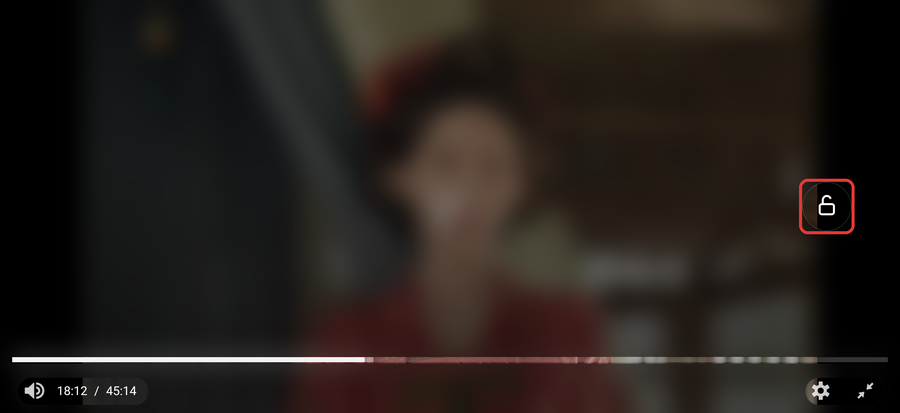
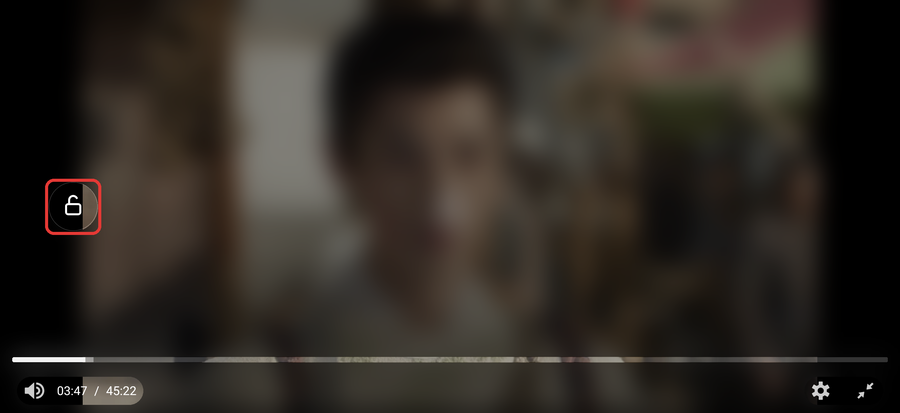
history 1.5, per-script READMEs and fresh screenshots
- history: do not lock onto the 1-second placeholder video the page shows
  before the real episode loads
- READMEs: one per script plus a general install guide; history explains
  the Firefox autoplay permission
- screenshots: current install/update pages, the three scripts in Tampermonkey,
  lock button on the left, continue-watching row, autoplay setting

diff --git a/history/motchill-history.user.js b/history/motchill-history.user.js
@@ -1,7 +1,7 @@
 // ==UserScript==
 // @name         Motchill - lịch sử xem
 // @namespace    motchill-history
-// @version      1.4
+// @version      1.5
 // @author       zic
 // @homepageURL  https://github.com/nhattruong16062003/motchill-userscripts/tree/main/history
 // @updateURL    https://raw.githubusercontent.com/nhattruong16062003/motchill-userscripts/main/history/motchill-history.user.js
@@ -154,8 +154,9 @@
     // không cần bấm Play hay chọn gì.
     function start() {
       if (ready) return;
+      const duration = Number.isFinite(video.duration) ? video.duration : 0;
+      if (duration && duration < MIN_EPISODE_SECONDS) return; // Video giả: đợi phim thật nạp vào.
       ready = true;
-      const duration = video.duration || 0;
       const canResume = resumeAt > MIN_RESUME_SECONDS && (!duration || resumeAt < duration * FINISHED_RATIO);
       if (!canResume) return;
       video.currentTime = resumeAt;

diff --git a/README.md b/README.md
@@ -1,118 +1,100 @@
-# Motchill không quảng cáo
+# Motchill userscripts
 
-Xem phim trên **motchilltu.com** không còn banner, popup hay tab quảng cáo tự bật. Trình phát có thêm tua 10 giây, giữ để xem nhanh x2 và khóa màn hình khi xem toàn màn hình.
+Ba script nhỏ giúp xem phim trên **motchilltu.com** dễ chịu hơn: không quảng cáo, tua và xem nhanh bằng cử chỉ, nhớ chỗ đang xem dở. Script chạy ngay trong trình duyệt điện thoại, không cần cài ứng dụng riêng.
 
-| Tính năng | Cách dùng |
-| --- | --- |
-| Chặn quảng cáo | Tự động, không cần bấm gì |
-| Tua 10 giây | Chạm 2 lần vào nửa trái (lùi) hoặc nửa phải (tới) của khung phim |
-| Xem nhanh x2 | Giữ ngón tay trên phim, thả ra là về tốc độ cũ |
-| Khóa màn hình | Bấm ổ khóa ở mép phải khi đang xem toàn màn hình |
+Mỗi script chạy riêng. Bạn cần cái nào thì cài cái đó.
 
-Dùng được trên **Android (Firefox)** và **iPhone, iPad (Safari)**. Chrome trên điện thoại không cài được tiện ích nên không dùng được.
+| Script | Làm gì | Android | iPhone, iPad | Hướng dẫn dùng |
+| --- | --- | :---: | :---: | --- |
+| Chặn quảng cáo + tối ưu mạng | Bỏ banner, popup, tab quảng cáo tự mở; đỡ tốn 4G | Có | Có | [Xem](noads/README.md) |
+| Thao tác trình phát | Chạm 2 lần để tua 10 giây, giữ để xem x2, khóa màn hình | Có | Không | [Xem](gestures/README.md) |
+| Lịch sử xem | Nhớ chỗ đang xem dở, mở lại là xem tiếp | Có | Chưa nên cài | [Xem](history/README.md) |
 
-**Link cài đặt:**
+Trên iPhone, iPad chỉ nên cài **Chặn quảng cáo**. Lý do có trong hướng dẫn của từng script.
 
-```
-https://raw.githubusercontent.com/nhattruong16062003/motchill-noads/main/motchill-noads.user.js
-```
+**Link cài đặt** (Android mở bằng Firefox, iPhone mở bằng Safari):
+
+- Chặn quảng cáo: https://raw.githubusercontent.com/nhattruong16062003/motchill-userscripts/main/noads/motchill-noads.user.js
+- Thao tác trình phát: https://raw.githubusercontent.com/nhattruong16062003/motchill-userscripts/main/gestures/motchill-gestures.user.js
+- Lịch sử xem: https://raw.githubusercontent.com/nhattruong16062003/motchill-userscripts/main/history/motchill-history.user.js
 
 ---
 
 ## Cài trên Android (Firefox)
 
-Mỗi máy chỉ cài một lần, sau đó tự chạy và tự cập nhật.
+Chrome trên điện thoại không cài được tiện ích, nên phải dùng Firefox. Mỗi máy chỉ cần cài một lần, sau đó script tự chạy và tự cập nhật.
 
 **Bước 1.** Cài **Firefox** từ CH Play.
 
 **Bước 2.** Cài tiện ích **Tampermonkey** cho Firefox:
 
 1. Mở Firefox, bấm **⋮** (góc phải trên) → **Tiện ích** → **Quản lý tiện ích**.
-2. Tìm **Tampermonkey**, bấm **+**, rồi bấm **Thêm** để đồng ý.
+2. Tìm **Tampermonkey**, bấm **+**, rồi bấm **Thêm**.
 
 Cài xong, trong menu **⋮** sẽ có dòng **Tiện ích · Tampermonkey**:
 
 <img src="docs/images/android-02-firefox-extensions-menu.png" width="320" alt="Menu Firefox có mục Tiện ích Tampermonkey">
 
-**Bước 3.** Mở **link cài đặt** ở trên bằng Firefox (bấm vào link, hoặc chép rồi dán vào thanh địa chỉ). Tampermonkey hiện trang cài đặt. Kiểm tra tên là *Motchill - chặn quảng cáo + cử chỉ tua*, nguồn là link GitHub, rồi kéo xuống cuối trang và bấm **Cài đặt**.
+**Bước 3.** Mở link cài đặt của script bạn muốn bằng Firefox (bấm vào link, hoặc chép rồi dán vào thanh địa chỉ). Tampermonkey hiện trang cài đặt. Kiểm tra tên script, **TÁC GIẢ** là *zic*, **NGUỒN** là link GitHub ở trên. Kéo xuống cuối trang, bấm **Cài đặt**.
 
-<img src="docs/images/android-03-install-page.png" width="320" alt="Trang cài đặt của Tampermonkey">
+<img src="docs/images/android-03-install-page.png" width="320" alt="Trang cài đặt của Tampermonkey, nguồn là GitHub, có nút Cài đặt">
 
-> Nếu máy đã có bản cũ, nút sẽ là **Cập nhật**. Nếu trước đó bạn đã xóa script, nút sẽ là **Cài lại**. Bấm nút đó là được.
+> Nếu script đã có trên máy, nút sẽ là **Cập nhật** (khi có bản mới hơn) hoặc **Cài lại** (khi cùng phiên bản).
 
-**Bước 4.** Mở **motchilltu.com** và xem phim. Muốn kiểm tra script đang chạy: bấm **⋮** → **Tiện ích** → **Tampermonkey**, thấy dòng *Motchill* có công tắc màu xanh là được.
+Muốn cài thêm script khác, làm lại bước 3 với link của script đó.
 
-<img src="docs/images/android-04-script-enabled.png" width="320" alt="Script đang bật trong Tampermonkey">
+> Máy từng cài bản cũ *Motchill - chặn quảng cáo + cử chỉ tua* (một script gộp chung): gỡ bản đó đi (xem phần **Gỡ cài đặt** ở cuối trang). Các script mới đã thay cho nó.
+
+**Bước 4.** Mở **motchilltu.com** và xem phim. Muốn kiểm tra: bấm **⋮** → **Tiện ích** → **Tampermonkey**. Các script đã cài hiện ra, công tắc màu xanh là đang chạy.
+
+<img src="docs/images/android-04-scripts-enabled.png" width="320" alt="Tampermonkey liệt kê 3 script đang bật">
+
+**Nếu cài Lịch sử xem:** cho phép trang tự phát phim, để phim tự chạy tiếp từ chỗ cũ. Trên motchilltu.com, chạm biểu tượng **tấm khiên** bên trái thanh địa chỉ → **Quyền hạn** → **Tự động phát** → **Cho phép âm thanh và video**. Có hình trong [hướng dẫn Lịch sử xem](history/README.md).
 
 ---
 
 ## Cài trên iPhone, iPad (Safari)
 
-Cần iOS 15.1 trở lên. Phải dùng **Safari**; Chrome và Firefox trên iPhone không chạy được script.
+Cần iOS 15.1 trở lên. Phải dùng **Safari**; Chrome và Firefox trên iPhone không chạy được script. Trên iPhone chỉ cài script **Chặn quảng cáo**.
 
 > Phần iPhone chưa được thử trên máy thật. Các hình dưới đây là **hình minh họa**, chữ trên máy bạn có thể khác một chút.
 
-**Bước 1.** Mở App Store, tìm **Userscripts** (miễn phí), bấm **Nhận**. Mở ứng dụng một lần để nó tự tạo thư mục chứa script.
+**Bước 1.** Mở App Store, tìm **Userscripts** (miễn phí), bấm **Nhận**. Mở ứng dụng một lần.
 
-<img src="docs/images/ios-01-app-store.png" width="280" alt="Hình minh họa: cài Userscripts từ App Store">
+<img src="docs/images/ios-01-app-store.png" width="320" alt="Hình minh họa: cài Userscripts từ App Store">
 
-**Bước 2.** Vào **Cài đặt → Ứng dụng → Safari → Phần mở rộng** (iOS 17 trở xuống: **Cài đặt → Safari → Phần mở rộng**). Bật **Userscripts** và đặt quyền là **Cho phép**, ít nhất cho motchilltu.com.
+**Bước 2.** Vào **Cài đặt → Ứng dụng → Safari → Phần mở rộng** (iOS 17 trở xuống: **Cài đặt → Safari → Phần mở rộng**). Bật **Userscripts** và cho phép nó chạy, ít nhất là trên motchilltu.com.
 
-<img src="docs/images/ios-02-enable-extension.png" width="280" alt="Hình minh họa: bật phần mở rộng Userscripts">
+<img src="docs/images/ios-02-enable-extension.png" width="320" alt="Hình minh họa: bật phần mở rộng Userscripts">
 
-**Bước 3.** Mở **link cài đặt** ở trên bằng Safari. Bấm **AA** (hoặc biểu tượng mảnh ghép) ở thanh địa chỉ → **Userscripts**, rồi bấm nút cài đặt hiện ra.
+**Bước 3.** Mở link cài đặt **Chặn quảng cáo** ở trên bằng Safari. Bấm **AA** (hoặc biểu tượng mảnh ghép) ở thanh địa chỉ → **Userscripts**, rồi bấm nút cài đặt hiện ra.
 
-**Bước 4.** Mở **motchilltu.com** trong Safari, bấm **AA** → **Userscripts**. Thấy script *Motchill* đang bật thì tải lại trang là xong.
+**Bước 4.** Mở **motchilltu.com** trong Safari, bấm **AA** → **Userscripts**. Thấy script đang bật thì tải lại trang là xong.
 
-<img src="docs/images/ios-03-check-in-safari.png" width="280" alt="Hình minh họa: kiểm tra script trong Safari">
+<img src="docs/images/ios-03-check-in-safari.png" width="320" alt="Hình minh họa: kiểm tra script trong Safari">
 
-**Nếu bước 3 không hiện nút cài:** tải file `motchill-noads.user.js` về máy, mở ứng dụng **Tệp**, chuyển file vào thư mục **Userscripts** (thường ở mục *Trên iPhone*), rồi làm tiếp bước 4.
+**Nếu bước 3 không hiện nút cài:** tải file `motchill-noads.user.js` về máy. Mở ứng dụng **Tệp**, chuyển file vào thư mục **Userscripts** (thường nằm trong mục *Trên iPhone*), rồi làm tiếp bước 4.
 
-<img src="docs/images/ios-04-save-to-files.png" width="280" alt="Hình minh họa: file nằm trong thư mục Userscripts">
-
----
-
-## Cách dùng khi xem phim
-
-Chọn server **VIP #1**. Server VIP #2 là trình phát của trang khác nên không có tua, x2 và khóa (quảng cáo vẫn bị chặn).
-
-Trang phim không còn quảng cáo:
-
-<img src="docs/images/use-01-no-ads.png" width="320" alt="Trang xem phim không còn quảng cáo">
-
-**Giữ ngón tay** trên phim để xem x2. Thả tay ra là về tốc độ cũ.
-
-<img src="docs/images/use-02-hold-2x.png" width="320" alt="Giữ để xem x2">
-
-**Chạm 2 lần** vào nửa phải để tới 10 giây, nửa trái để lùi 10 giây. Chạm liên tiếp để tua thêm 10 giây mỗi lần.
-
-<img src="docs/images/use-03-seek-forward.png" width="320" alt="Tua tới 10 giây"> <img src="docs/images/use-04-seek-back.png" width="320" alt="Lùi 10 giây">
-
-**Khóa màn hình** (chỉ có khi xem toàn màn hình): chạm 1 lần vào phim để hiện thanh điều khiển, rồi bấm ổ khóa ở mép phải.
-
-<img src="docs/images/use-05-lock-button.png" width="560" alt="Ổ khóa ở mép phải khi xem toàn màn hình">
-
-Khi đã khóa, thanh điều khiển ẩn hết: không dừng được phim, không thoát toàn màn hình được. Vẫn **tua 10 giây** và **giữ x2** như thường. Muốn mở khóa: chạm 1 lần vào phim, ổ khóa hiện lại khoảng 2,5 giây, bấm vào nó.
-
-<img src="docs/images/use-06-locked.png" width="560" alt="Đã khóa: chỉ còn ổ khóa">
+<img src="docs/images/ios-04-save-to-files.png" width="320" alt="Hình minh họa: file nằm trong thư mục Userscripts">
 
 ---
 
 ## Cập nhật
 
-- **Android:** Tampermonkey tự kiểm tra bản mới định kỳ. Muốn cập nhật ngay, mở lại link cài đặt rồi bấm **Cập nhật**.
-- **iPhone:** mở lại link cài đặt trong Safari và cài lại.
+**Android:** Tampermonkey tự kiểm tra bản mới định kỳ và tự cập nhật, bạn không cần làm gì.
 
-## Gặp lỗi
+Muốn cập nhật ngay: mở lại link cài đặt của script. Trang hiện số phiên bản mới cạnh tên script, còn dòng **PHIÊN BẢN CÀI ĐẶT** là bản đang có trên máy. Bấm **Cập nhật**.
 
-| Hiện tượng | Cách xử lý |
-| --- | --- |
-| Quảng cáo vẫn hiện | Kiểm tra đang dùng Firefox (Android) hoặc Safari (iPhone), không phải tab riêng tư. Tải lại trang. |
-| Không có tua, x2, ổ khóa | Chọn server **VIP #1**. |
-| Không thấy ổ khóa | Ổ khóa chỉ có khi xem toàn màn hình. Chạm 1 lần vào phim để hiện. |
-| Trang đổi sang tên miền khác, script hết tác dụng | Script chỉ chạy trên motchilltu.com. Chờ bản cập nhật mới. |
+<img src="docs/images/android-05-update-page.png" width="320" alt="Trang cập nhật: bản mới 4.1, bản đang cài 4.0, nút Cập nhật">
+
+- Vừa có bản mới mà trang vẫn hiện bản cũ: chờ vài phút rồi mở lại. Hoặc thêm `?v=` và một số bất kỳ vào cuối link, ví dụ `.../motchill-noads.user.js?v=2`.
+- Xem bản đang cài: **⋮** → **Tiện ích** → **Tampermonkey** → **Bảng tổng quan**, bấm biểu tượng cây bút ở dòng của script. Tên tab vừa mở có số phiên bản ở cuối.
+
+**iPhone:** mở lại link cài đặt trong Safari và cài lại.
 
 ## Gỡ cài đặt
 
-- **Android:** Firefox → **⋮** → **Tiện ích** → **Tampermonkey** → **Bảng tổng quan**, bấm biểu tượng thùng rác ở dòng *Motchill*.
-- **iPhone:** mở ứng dụng **Userscripts** hoặc thư mục **Userscripts** trong ứng dụng Tệp, xóa file `motchill-noads.user.js`.
+- **Android:** Firefox → **⋮** → **Tiện ích** → **Tampermonkey** → **Bảng tổng quan**, bấm biểu tượng thùng rác ở dòng của script muốn gỡ.
+- **iPhone:** mở ứng dụng **Userscripts** hoặc thư mục **Userscripts** trong ứng dụng **Tệp**, xóa file `motchill-noads.user.js`.
+
+Lưu ý: gỡ script **Lịch sử xem** thì danh sách phim đang xem dở cũng mất theo.

diff --git a/history/README.md b/history/README.md
@@ -1,0 +1,70 @@
+# Lịch sử xem
+
+Tên khi cài: *Motchill - lịch sử xem* (phiên bản 1.4).
+
+Nhớ chỗ bạn đang xem dở ở từng phim trên **motchilltu.com**. Mở lại tập đó là phim tự tua tới chỗ cũ và chạy tiếp. Trang chủ có thêm hàng **Đang xem dở** để vào lại phim nhanh.
+
+Script này không bắt buộc. Cài thêm nếu bạn cần.
+
+## Dùng được trên
+
+| Android (Firefox) | iPhone, iPad |
+| :---: | :---: |
+| Có | Chưa nên cài |
+
+Script chưa được thử trên iPhone, nên hiện tại trên iPhone chỉ nên cài script chặn quảng cáo.
+
+Chỉ chạy trên server **VIP #1**.
+
+## Cài đặt
+
+Link cài đặt:
+
+```
+https://raw.githubusercontent.com/nhattruong16062003/motchill-userscripts/main/history/motchill-history.user.js
+```
+
+Các bước cài từng bước trên Android có trong [hướng dẫn chung](../README.md).
+
+### Cho phép tự động phát (làm một lần)
+
+Firefox mặc định không cho trang tự phát phim. Muốn phim tự chạy tiếp khi mở lại:
+
+1. Mở một trang bất kỳ của **motchilltu.com** bằng Firefox.
+2. Chạm biểu tượng **tấm khiên** ở bên trái thanh địa chỉ.
+3. Ở mục **Quyền hạn**, chạm **Tự động phát**, chọn **Cho phép âm thanh và video** (mặc định là *Chỉ chặn âm thanh*).
+
+<img src="../docs/images/history-02-autoplay-setting.png" width="320" alt="Bảng tấm khiên của Firefox, mục Quyền hạn, dòng Tự động phát">
+
+Nếu không cho phép, phim vẫn tua tới chỗ cũ nhưng đứng yên. Bấm Play một lần là phim chạy tiếp từ chỗ đã lưu.
+
+## Cách dùng
+
+### Xem tiếp chỗ cũ
+
+Bạn không cần bấm gì. Script tự ghi lại chỗ đang xem khoảng 5 giây một lần, và mỗi khi bạn dừng phim, chuyển sang ứng dụng khác, khóa máy hoặc rời trang. Nếu trang bị tải lại bất ngờ, bạn chỉ lỡ nhiều nhất khoảng 5 giây.
+
+Mở lại tập đang xem dở (từ hàng **Đang xem dở** hoặc từ danh sách tập): phim tự nhảy tới chỗ cũ và tự chạy.
+
+Thấy nút **Chạm để bật tiếng** ở góc dưới bên phải khung phim nghĩa là phim đang chạy không có tiếng. Chạm vào phim để bật tiếng.
+
+### Hàng "Đang xem dở" ở trang chủ
+
+Đầu trang chủ có hàng **Đang xem dở**. Mỗi thẻ gồm ảnh phim, thanh đỏ cho biết đã xem tới đâu, tên phim và một dòng như *Tập 02 · còn 32 phút*.
+
+- Chạm vào thẻ để mở đúng tập đang xem.
+- Bấm **×** ở góc ảnh để xóa phim khỏi hàng.
+
+<img src="../docs/images/history-01-continue-row.png" width="320" alt="Hàng Đang xem dở ở trang chủ">
+
+Xem quá 95% một tập thì tập đó tính là đã xem xong: thẻ chuyển sang tập kế tiếp và ghi *chưa xem*. Xem xong tập cuối thì phim tự rời khỏi hàng.
+
+Hàng này giữ 20 phim bạn xem gần nhất.
+
+## Lưu ý
+
+- Lịch sử được lưu trong Tampermonkey, không lưu trong trang web. Vì vậy xóa dữ liệu của trang web thì lịch sử vẫn còn. Trang đổi tên miền và script được cập nhật theo thì lịch sử cũ cũng vẫn còn.
+- Lịch sử chỉ mất khi bạn gỡ script này hoặc gỡ Tampermonkey.
+- Trang motchilltu.com cũng có sẵn chức năng nhớ chỗ xem (`OPCMS-PlayerPosition`), nhưng dùng chung cho mọi phim nên dễ tua nhầm. Script tắt chức năng đó để hai bên không tua đè lên nhau.
+- Mở lại mà phim chạy từ đầu: tập đó mới xem chưa tới 10 giây, hoặc bạn đang không chọn server **VIP #1**.
+- Phim tới đúng chỗ cũ nhưng không tự chạy: xem lại phần **Cho phép tự động phát** ở trên, hoặc bấm Play một lần.

diff --git a/gestures/README.md b/gestures/README.md
@@ -1,0 +1,64 @@
+# Thao tác trình phát
+
+Tên khi cài: *Motchill - thao tác trình phát* (phiên bản 1.2).
+
+Thêm cử chỉ cho trình phát phim trên **motchilltu.com**: chạm 2 lần để tua 10 giây, giữ ngón tay để xem nhanh x2, khóa màn hình khi xem toàn màn hình để lỡ chạm cũng không dừng phim.
+
+## Dùng được trên
+
+| Android (Firefox) | iPhone, iPad |
+| :---: | :---: |
+| Có | Không |
+
+Trên iPhone, khi xem toàn màn hình, máy chuyển sang trình phát riêng của Apple, nên các cử chỉ này không hoạt động. Vì vậy không cần cài script này trên iPhone.
+
+Chỉ chạy trên server **VIP #1**. Server VIP #2 là trình phát của trang khác nên không có các cử chỉ này.
+
+## Cài đặt
+
+Link cài đặt:
+
+```
+https://raw.githubusercontent.com/nhattruong16062003/motchill-userscripts/main/gestures/motchill-gestures.user.js
+```
+
+Các bước cài từng bước trên Android có trong [hướng dẫn chung](../README.md).
+
+## Cách dùng
+
+### Tua 10 giây
+
+**Chạm 2 lần** vào nửa phải khung phim để tới 10 giây, vào nửa trái để lùi 10 giây. Chạm tiếp để tua thêm 10 giây mỗi lần. Khi tua, một nhãn nhỏ nền mờ hiện **10s »** hoặc **« 10s**.
+
+<img src="../docs/images/use-03-seek-forward.png" width="320" alt="Tua tới 10 giây"> <img src="../docs/images/use-04-seek-back.png" width="320" alt="Lùi 10 giây">
+
+### Xem nhanh x2
+
+**Giữ ngón tay** trên phim: phim chạy nhanh gấp đôi. Thả tay ra là về tốc độ thường. Phía trên khung phim hiện nhãn **2x** với ba mũi tên sáng lần lượt.
+
+<img src="../docs/images/use-02-hold-2x.png" width="320" alt="Giữ ngón tay để xem x2">
+
+### Khóa màn hình
+
+Chỉ có khi xem toàn màn hình.
+
+1. Chạm 1 lần vào phim để hiện thanh điều khiển. Ổ khóa tròn hiện cùng lúc ở mép trái màn hình.
+2. Bấm vào ổ khóa để khóa.
+
+<img src="../docs/images/use-05-lock-button.png" width="560" alt="Ổ khóa ở mép trái khi xem toàn màn hình">
+
+Khi đã khóa:
+
+- Thanh điều khiển ẩn hết. Không dừng phim và không thoát toàn màn hình được, nên lỡ chạm cũng không sao.
+- Vẫn tua 10 giây và giữ để xem x2 như thường.
+- Chạm 1 lần vào phim để hiện ổ khóa, chạm lần nữa để ẩn. Ổ khóa tự ẩn sau khoảng 2,5 giây.
+- Muốn mở khóa: bấm vào ổ khóa khi nó đang hiện.
+- Bấm nút Quay lại của điện thoại để thoát toàn màn hình cũng sẽ mở khóa.
+
+<img src="../docs/images/use-06-locked.png" width="560" alt="Đã khóa: màn hình chỉ còn ổ khóa">
+
+## Lưu ý
+
+- Không tua được, không xem x2 được: kiểm tra bạn đang chọn server **VIP #1**.
+- Không thấy ổ khóa: ổ khóa chỉ có khi xem toàn màn hình. Chạm 1 lần vào phim để hiện.
+- Script chỉ chạy trên motchilltu.com. Nếu trang đổi sang tên miền khác, cần chờ bản cập nhật.

diff --git a/noads/README.md b/noads/README.md
@@ -1,0 +1,42 @@
+# Chặn quảng cáo + tối ưu mạng
+
+Tên khi cài: *Motchill - chặn quảng cáo + tối ưu mạng* (phiên bản 4.2).
+
+Xem phim trên **motchilltu.com** và **motchillt.app** không còn quảng cáo. Script tự chạy, bạn không cần bấm gì.
+
+## Dùng được trên
+
+| Android (Firefox) | iPhone, iPad (Safari) |
+| :---: | :---: |
+| Có | Có |
+
+Đây là script duy nhất nên cài trên iPhone, iPad.
+
+## Cài đặt
+
+Link cài đặt:
+
+```
+https://raw.githubusercontent.com/nhattruong16062003/motchill-userscripts/main/noads/motchill-noads.user.js
+```
+
+Các bước cài từng bước cho Android và iPhone có trong [hướng dẫn chung](../README.md).
+
+## Script làm gì
+
+- Ẩn banner quảng cáo ở trên và dưới trang.
+- Ẩn banner nằm ngay dưới khung phim.
+- Chặn popup quảng cáo hiện giữa màn hình.
+- Chặn tab quảng cáo tự mở ra khi bạn chạm vào bất kỳ chỗ nào trên trang.
+- Ẩn nút chia sẻ trên trình phát.
+- Tắt chia sẻ dữ liệu giữa người xem (P2P). Phim chỉ tải từ máy chủ, máy bạn không phải tải lên cho người khác, nên đỡ tốn 4G và pin.
+
+Trang xem phim sau khi cài:
+
+<img src="../docs/images/use-01-no-ads.png" width="320" alt="Trang xem phim không còn quảng cáo">
+
+## Lưu ý
+
+- Một số phim có dòng quảng cáo nằm sẵn trong hình, ví dụ "Bộ phim này do ... tài trợ". Dòng đó là một phần của video nên không xóa được.
+- Quảng cáo vẫn hiện: kiểm tra bạn đang mở bằng Firefox (Android) hoặc Safari (iPhone), không phải tab riêng tư, rồi tải lại trang.
+- Script chỉ chạy trên motchilltu.com và motchillt.app. Nếu trang đổi sang tên miền khác, script sẽ không có tác dụng cho tới khi có bản cập nhật.
